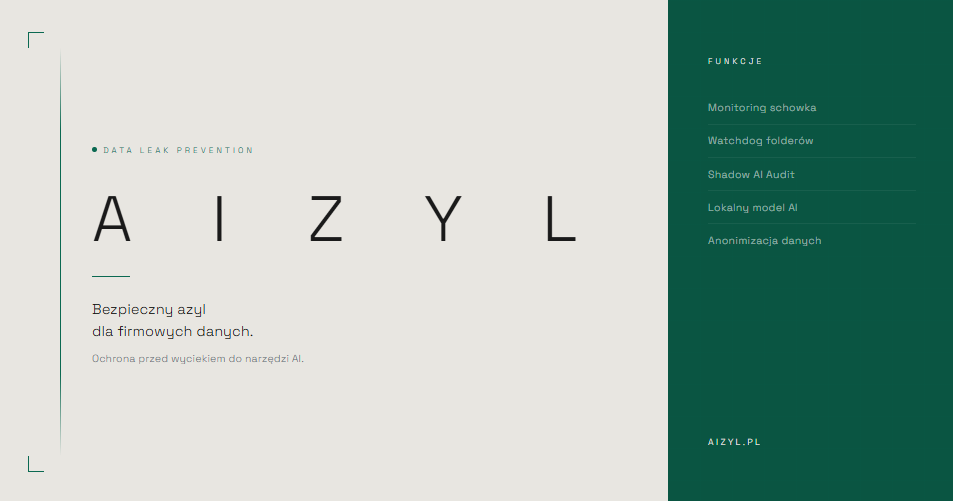
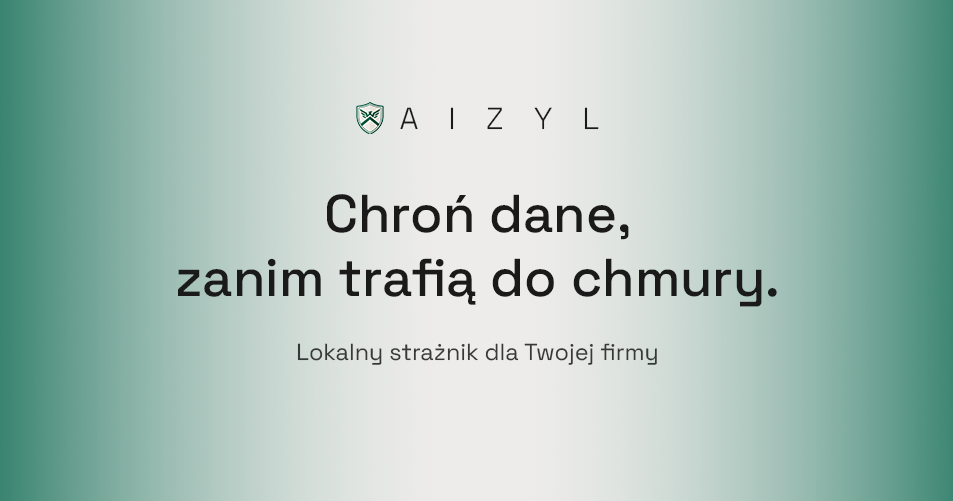
Poprawa OG: ujednolicenie tytulow AIZYL, podmiana grafiki og-image, spojnosc meta tagow

diff --git a/jak-to-dziala/index.html b/jak-to-dziala/index.html
@@ -4,19 +4,19 @@
   <meta charset="UTF-8" />
   <meta name="viewport" content="width=device-width, initial-scale=1.0" />
   <meta name="description" content="Jak działa Aizyl DLP — monitoring schowka, watchdog folderów, pasek systemowy, Shadow AI Audit, pamięć i flota urządzeń." />
-  <title>Jak to działa — A I Z Y L</title>
+  <title>Jak to działa — AIZYL</title>
 
   <!-- Open Graph -->
-  <meta property="og:title" content="Jak to działa — A I Z Y L" />
-  <meta property="og:description" content="Poznaj mechanizmy ochrony danych Aizyl DLP krok po kroku." />
+  <meta property="og:title" content="Jak to działa — AIZYL" />
+  <meta property="og:description" content="Zobacz krok po kroku, jak Aizyl wyłapuje i chroni poufne dane, zanim trafią do AI." />
   <meta property="og:image" content="https://aizyl.pl/assets/og-image.png" />
   <meta property="og:url" content="https://aizyl.pl/jak-to-dziala" />
   <meta property="og:type" content="website" />
 
   <!-- Twitter Card -->
   <meta name="twitter:card" content="summary_large_image" />
-  <meta name="twitter:title" content="Jak to działa — A I Z Y L" />
-  <meta name="twitter:description" content="Poznaj mechanizmy ochrony danych Aizyl DLP krok po kroku." />
+  <meta name="twitter:title" content="Jak to działa — AIZYL" />
+  <meta name="twitter:description" content="Zobacz krok po kroku, jak Aizyl wyłapuje i chroni poufne dane, zanim trafią do AI." />
   <meta name="twitter:image" content="https://aizyl.pl/assets/og-image.png" />
 
   <!-- Favicon -->

diff --git a/index.html b/index.html
@@ -4,18 +4,18 @@
   <meta charset="UTF-8" />
   <meta name="viewport" content="width=device-width, initial-scale=1.0" />
   <meta name="description" content="Bezpieczny azyl dla firmowych danych. Aizyl DLP chroni przed wyciekiem poufnych danych do narzędzi AI — monitoring schowka, watchdog folderów, Shadow AI Audit." />
-  <title>A I Z Y L — Bezpieczny azyl dla firmowych danych</title>
+  <title>AIZYL | azyl dla danych Twojej firmy</title>
 
   <!-- Open Graph -->
-  <meta property="og:title" content="A I Z Y L — Bezpieczny azyl dla firmowych danych" />
-  <meta property="og:description" content="Chroń dane firmowe przed wyciekiem do narzędzi AI. Monitoring schowka, watchdog, lokalny model AI." />
+  <meta property="og:title" content="AIZYL | azyl dla danych Twojej firmy" />
+  <meta property="og:description" content="Chroń dane firmowe przed wyciekiem do narzędzi AI. Zabezpiecz firmę przed karami z AI Act, nie zwalniając tempa pracy swojego zespołu." />
   <meta property="og:image" content="https://aizyl.pl/assets/og-image.png" />
   <meta property="og:url" content="https://aizyl.pl" />
   <meta property="og:type" content="website" />
 
   <!-- Twitter Card -->
   <meta name="twitter:card" content="summary_large_image" />
-  <meta name="twitter:title" content="A I Z Y L — Bezpieczny azyl dla firmowych danych" />
+  <meta name="twitter:title" content="AIZYL | azyl dla danych Twojej firmy" />
   <meta name="twitter:description" content="Chroń dane firmowe przed wyciekiem do narzędzi AI." />
   <meta name="twitter:image" content="https://aizyl.pl/assets/og-image.png" />
 

diff --git a/realne-ryzyka/index.html b/realne-ryzyka/index.html
@@ -4,10 +4,10 @@
   <meta charset="UTF-8" />
   <meta name="viewport" content="width=device-width, initial-scale=1.0" />
   <meta name="description" content="Pięć realnych sytuacji z różnych branż, w których brak Aizyl DLP mógł skończyć się wyciekiem danych i karą RODO." />
-  <title>Realne ryzyka — A I Z Y L</title>
+  <title>Realne ryzyka — AIZYL</title>
 
   <!-- Open Graph -->
-  <meta property="og:title" content="Realne ryzyka — A I Z Y L" />
+  <meta property="og:title" content="Realne ryzyka — AIZYL" />
   <meta property="og:description" content="Pięć sytuacji z różnych branż, w których jedno kliknięcie mogło skończyć się wyciekiem danych." />
   <meta property="og:image" content="https://aizyl.pl/assets/og-image.png" />
   <meta property="og:url" content="https://aizyl.pl/realne-ryzyka" />
@@ -15,7 +15,7 @@
 
   <!-- Twitter Card -->
   <meta name="twitter:card" content="summary_large_image" />
-  <meta name="twitter:title" content="Realne ryzyka — A I Z Y L" />
+  <meta name="twitter:title" content="Realne ryzyka — AIZYL" />
   <meta name="twitter:description" content="Pięć sytuacji z różnych branż, w których jedno kliknięcie mogło skończyć się wyciekiem danych." />
   <meta name="twitter:image" content="https://aizyl.pl/assets/og-image.png" />
 